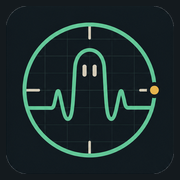
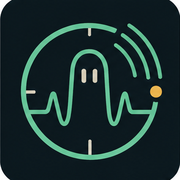
Nouvelle identite visuelle : marque, wordmark, icones d'application

diff --git a/lib/ambiance.css b/lib/ambiance.css
@@ -50,6 +50,32 @@ body::after{
 /* le contenu passe au-dessus des deux couches */
 body > *{ position:relative; z-index:1; }
 
+/* ── la marque, en tête de chaque page ──
+   Le petit radar au fantôme devant le titre : c'est ce qui fait qu'on reconnaît
+   l'appareil d'un coup d'œil, y compris quand on ouvre une page au hasard. */
+.topin h1::before{
+  content:"";display:inline-block;width:22px;height:22px;margin-right:9px;
+  vertical-align:-5px;background:url("/ghost-box/assets/marque.png") center/contain no-repeat;
+  filter:drop-shadow(0 0 8px rgba(95,211,166,.45));
+}
+
+/* le bouton plein écran flotte en haut à droite : l'en-tête lui laisse la place,
+   sinon il recouvre l'état de la page (« à préparer », « en veille »…) */
+.topin{ padding-right:54px; }
+/* un titre d'en-tête tient sur UNE ligne : c'est l'état de la page qui se
+   raccourcit si la place manque, jamais le nom du mode qui passe à la ligne */
+.topin h1{ white-space:nowrap; overflow:hidden; text-overflow:ellipsis; }
+.topin > .lg{ flex:0 1 auto; min-width:0; overflow:hidden; text-overflow:ellipsis; white-space:nowrap; }
+.topin h1::before{ flex:none; }
+/* sur un écran étroit, on resserre plutôt que de couper : le nom du mode et
+   l'état de la page doivent rester lisibles tous les deux */
+@media (max-width:430px){
+  .topin{ padding-right:48px; gap:7px; }
+  .topin h1{ font-size:13px; letter-spacing:.10em; }
+  .topin > .lg{ font-size:10.5px; letter-spacing:.10em; }
+  .topin h1::before{ width:18px; height:18px; margin-right:7px; vertical-align:-4px; }
+}
+
 /* ── titres : la ligne de crête de l'identité ── */
 .topin h1, h1, h2{ text-shadow:0 0 18px rgba(95,211,166,.16); }
 .top{ box-shadow:0 10px 30px -22px rgba(0,0,0,.9); }

diff --git a/CLAUDE.md b/CLAUDE.md
@@ -24,7 +24,7 @@ Le code partagé, en un seul exemplaire :
 |---|---|
 | `lib/moteur.js` | Moteur de détection (statistique robuste, seuil auto, témoin de bruit) |
 | `lib/mur.js` | Mur de mots — **rendu canvas** (pluie de mots, faisceau de lecture, gel, équité des vitesses, phrase) |
-| `lib/ambiance.css` | **Identité visuelle partagée** : grain, vignettage, halos. Purement additive |
+| `lib/ambiance.css` | **Identité visuelle partagée** : marque en tête de page, grain, vignettage, halos. Purement additive |
 | `lib/retour.js` | **Retour au menu** — le même bouton visible sur toutes les pages, ajouté s'il manque |
 | `lib/secours.js` | **Filet de sécurité** : pendant une prise, chaque morceau est écrit tout de suite dans la base ; une prise interrompue se récupère au retour |
 | `lib/tampon.js` | Mémoire tampon : encode en continu, ne garde que les N dernières secondes |
@@ -88,6 +88,19 @@ Ce projet a une exigence de sincérité qui prime sur toute fonctionnalité. Un 
 - Un téléphone **n'a pas de récepteur radio** : le micro enregistre le *son* de la box, pas les ondes.
 - Pas de capteur de profondeur : la détection de personne est fragile dans le noir.
 - La clé Mistral est stockée en `localStorage` de l'appareil, jamais dans le dépôt.
+
+## La marque
+
+Les fichiers sortent d'une planche fournie par Florian et sont **découpés**, jamais redessinés :
+
+| Fichier | Usage |
+|---|---|
+| `assets/wordmark.png` | Bandeau large — en-tête de l'accueil |
+| `assets/lockup.png` | Version compacte icône + nom |
+| `assets/marque.png` | **Le radar au fantôme, fond transparent** — posé devant chaque titre de page par `ambiance.css` |
+| `favicon.png`, `apple-touch-icon.png`, `assets/icone-192/512.png` | Icônes de l'application installée (`manifest.json`) |
+
+Le fond des tuiles d'origine a été détouré par différence avec la couleur dominante, pour que la marque puisse se poser sur n'importe quel fond. Si une nouvelle planche arrive, refaire le découpage plutôt que de redessiner à la main : c'est son dessin, pas le mien.
 
 ## Déploiement
 
